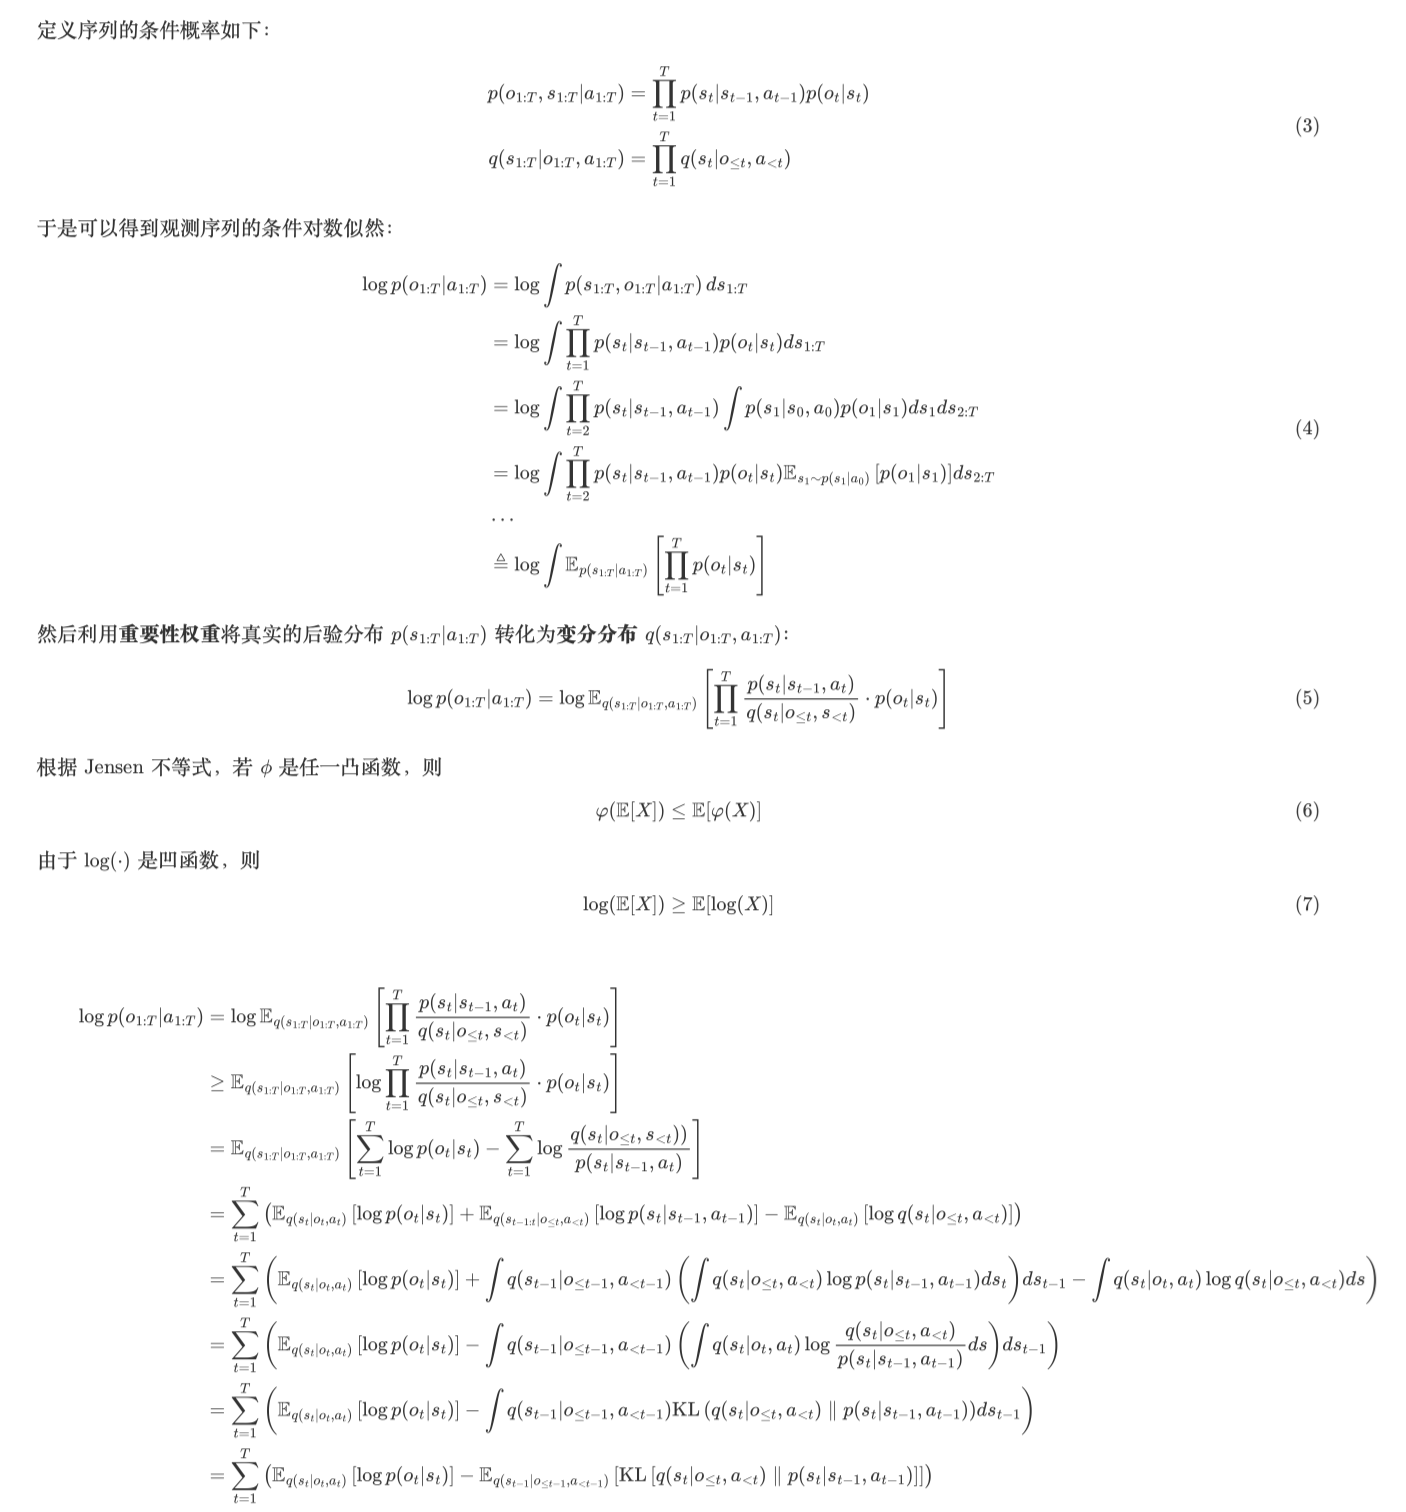
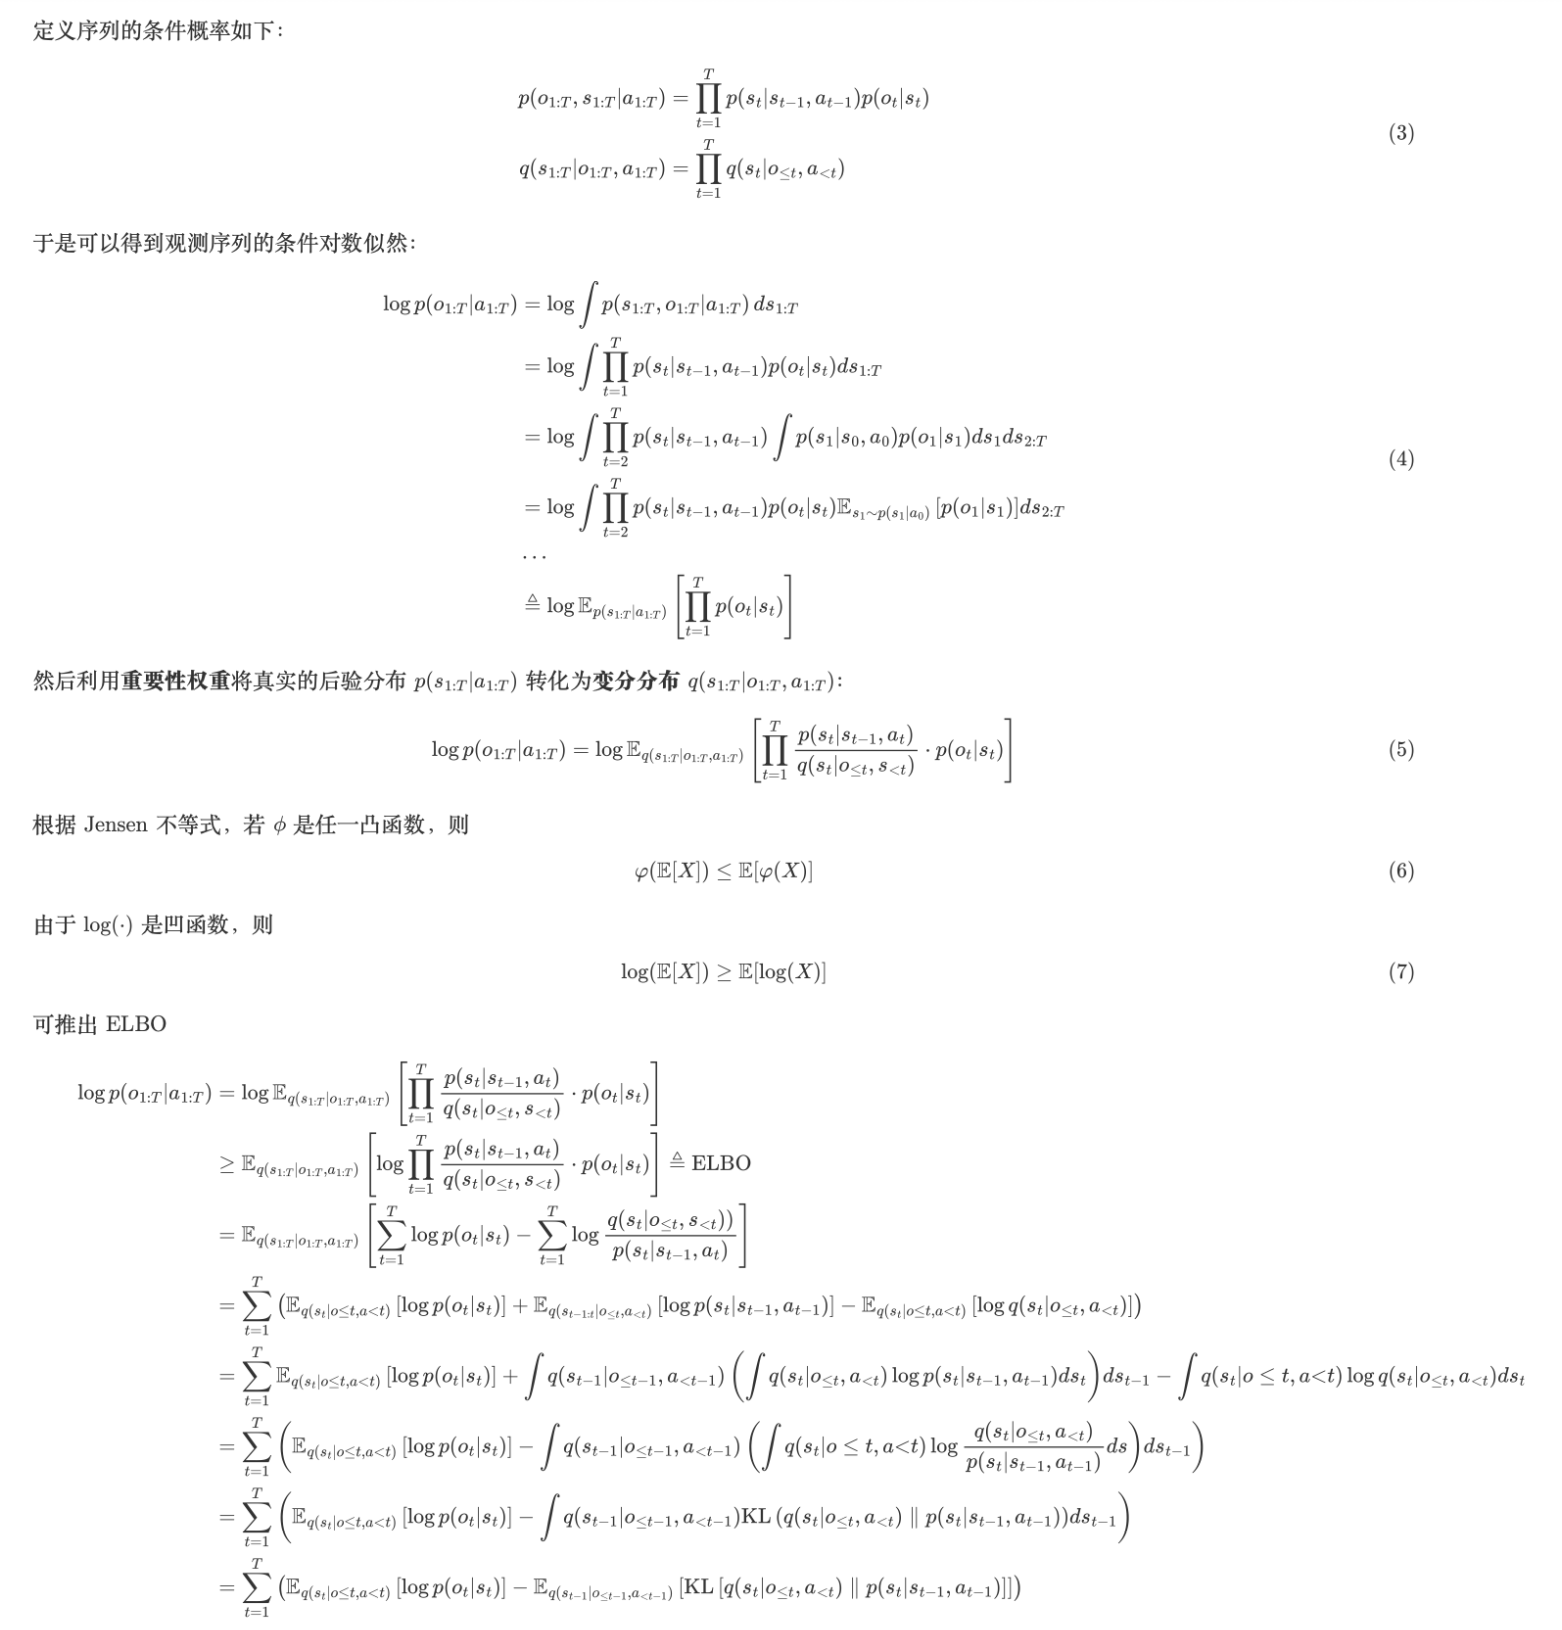
修复

diff --git a/readme.md b/readme.md
@@ -196,43 +196,41 @@ $$
 \begin{aligned}
 \log p(o_{1:T} | a_{1:T}) &= \log \mathbb E_{q(s_{1:T} | o_{1:T},a_{1:T})}
 \left [ \prod_{t=1}^T \frac {p(s_t | s_{t-1}, a_t) }{q(s_t | o_{\leq t}, s_{\textless t})} \cdot p(o_t | s_t) \right ] \\
-&\ge \mathbb E_{q(s_{1:T} | o_{1:T},a_{1:T})} \left [ \log \prod _{t=1} ^T \frac {p(s_t | s_{t-1}, a_t) }{q(s_t | o_{\leq t}, s_{\textless t})} \cdot p(o_t | s_t)  \right ] \triangleq \text{ELBO}\\\\
+&\ge \mathbb E_{q(s_{1:T} | o_{1:T},a_{1:T})} \left [ \log \prod _{t=1} ^T \frac {p(s_t | s_{t-1}, a_t) }{q(s_t | o_{\leq t}, s_{\textless t})} \cdot p(o_t | s_t)  \right ] \triangleq \text{ELBO}\\
 &= \mathbb E_{q(s_{1:T} | o_{1:T},a_{1:T})} \left [  \sum_{t=1}^T \log p(o_t | s_t) - \sum _{t=1}^T \log \frac{q(s_t | o_{\leq t}, s_{\textless t}))}{p(s_t |  s_{t-1}, a_t)} \right ]\\
 &= \sum _{t=1} ^T 
 \left (
-	\mathbb E_{q(s_t | o_t,a_t)} \left [ \log p(o_t | s_t) \right ] 
+	\mathbb E_{q(s_t | o \leq t, a \textless t)} \left [ \log p(o_t | s_t) \right ] 
 	+ \mathbb E_{q(s_{t-1:t} | o_{\leq t},a_{\textless t})} \left [ \log p(s_t | s_{t-1}, a_{t-1}) \right ]
-	- \mathbb E_{q(s_t | o_t,a_t)} \left [ \log q(s_t | o_{\leq t}, a_{\textless t}) \right ] 
+	- \mathbb E_{q(s_t | o \leq t, a \textless t)} \left [ \log q(s_t | o_{\leq t}, a_{\textless t}) \right ] 
 \right ) \\
 &= \sum _{t=1} ^T
-\left (
-	\mathbb E_{q(s_t | o_t,a_t)} \left [ \log p(o_t | s_t) \right ] 
+	\mathbb E_{q(s_t | o \leq t, a \textless t)} \left [ \log p(o_t | s_t) \right ] 
 	+ \int q(s_{t-1} | o_{\leq t-1},a_{\textless t-1})
-	\left ( \int q(s_{t} | o_{\leq t},a_{\textless t}) \log p(s_t | s_{t-1}, a_{t-1}) ds_t \right )
+	\left( \int q(s_{t} | o_{\leq t},a_{\textless t}) \log p(s_t | s_{t-1}, a_{t-1}) ds_t \right)
 	ds_{t-1}
-	-\int q(s_t | o_t,a_t) \log q(s_t | o_{\leq t}, a_{\textless t}) ds
-\right ) \\
+	-\int q(s_t | o \leq t, a \textless t) \log q(s_t | o_{\leq t}, a_{\textless t}) ds_t \\
 &= \sum _{t=1} ^T
 \left (
-	\mathbb E_{q(s_t | o_t,a_t)} \left [ \log p(o_t | s_t) \right ] 
+	\mathbb E_{q(s_t | o \leq t, a \textless t)} \left [ \log p(o_t | s_t) \right ] 
 	- \int q(s_{t-1} | o_{\leq t-1},a_{\textless t-1}) 
-		\left ( \int q(s_t | o_t,a_t) \log \frac {q(s_t | o_{\leq t}, a_{\textless t})}{p(s_t | s_{t-1}, a_{t-1})}ds \right ) ds_{t-1}
+		\left ( \int q(s_t | o \leq t, a \textless t) \log \frac {q(s_t | o_{\leq t}, a_{\textless t})}{p(s_t | s_{t-1}, a_{t-1})}ds \right ) ds_{t-1}
 \right ) \\
 &= \sum _{t=1} ^T
 \left (
-	\mathbb E_{q(s_t | o_t,a_t)} \left [ \log p(o_t | s_t) \right ] 
+	\mathbb E_{q(s_t | o \leq t, a \textless t)} \left [ \log p(o_t | s_t) \right ] 
 	- \int q(s_{t-1} | o_{\leq t-1},a_{\textless t-1}) 
 		\text{KL} \left ( q(s_t | o_{\leq t}, a_{\textless t}) \parallel p(s_t | s_{t-1}, a_{t-1}) \right )
 		ds_{t-1}
 \right ) \\
 &= \sum _{t=1} ^T
 \left (
-	\mathbb E_{q(s_t | o_t,a_t)} \left [ \log p(o_t | s_t) \right ] 
+	\mathbb E_{q(s_t | o \leq t, a \textless t)} \left [ \log p(o_t | s_t) \right ] 
 	- \mathbb E_{q(s_{t-1} | o_{\leq t-1},a_{\textless t-1})}
 	\left [
 		\text{KL} \left [ q(s_t | o_{\leq t}, a_{\textless t}) \parallel p(s_t | s_{t-1}, a_{t-1}) \right ]
 	\right ]
-\right ) 
+\right ) \\
 &&\blacksquare
 \end{aligned}
 ```
